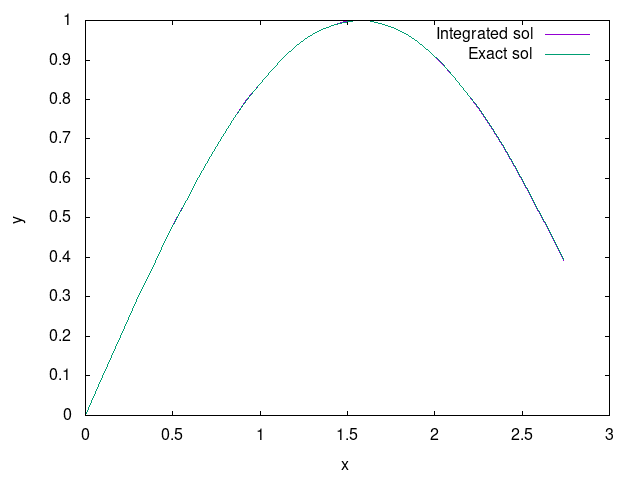
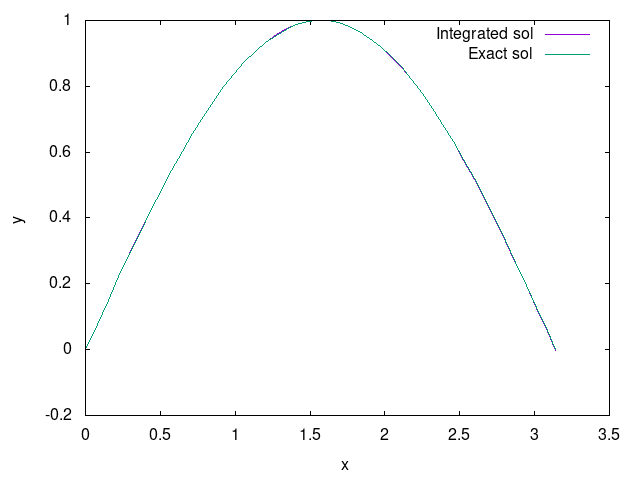
fixed 8

diff --git a/homework/ode/main.c b/homework/ode/main.c
@@ -74,8 +74,8 @@ int bby_driver(void f(double x, gsl_vector* y, gsl_vector* dydx)
         gsl_vector_view yx = gsl_matrix_row(&Y.matrix,k);
         //printf("%i %i %i\n",(&Y.matrix)->size1,(&Y.matrix)->size2,(&yx.vector)->size);
         rkstep12(f,xpos,&yx.vector,h, yplaceholder,err);
-        printf("ny\n");
-        gsl_vector_fprintf(stdout,yplaceholder,"%g");
+        //printf("ny\n");
+        //gsl_vector_fprintf(stdout,yplaceholder,"%g");
         dy = gsl_blas_dnrm2(err);
         normy = gsl_blas_dnrm2(yplaceholder);
         tol = (normy*eps+acc)*sqrt(h/(b-a));
@@ -146,7 +146,6 @@ void SIR3(double x, gsl_vector* y, gsl_vector* dydx){
     gsl_vector_set(dydx,1,didt);
     gsl_vector_set(dydx,2,drdt);
 }
-
 void threebody( double x, gsl_vector* y, gsl_vector* dydx){
     double G = 1.;
     double m1 = 1.;
@@ -164,9 +163,9 @@ void threebody( double x, gsl_vector* y, gsl_vector* dydx){
     double dr2y = gsl_vector_get(y,9);
     double dr3x = gsl_vector_get(y,10);
     double dr3y = gsl_vector_get(y,11);
-    double r1r2 = sqrt(pow((r1x-r2x),2)*pow((r1y-r2y),2));
-    double r1r3 = sqrt(pow((r1x-r3x),2)*pow((r1y-r3y),2));
-    double r2r3 = sqrt(pow((r2x-r3x),2)*pow((r2y-r3y),2));
+    double r1r2 = sqrt(pow((r1x-r2x),2)+pow((r1y-r2y),2));
+    double r1r3 = sqrt(pow((r1x-r3x),2)+pow((r1y-r3y),2));
+    double r2r3 = sqrt(pow((r2x-r3x),2)+pow((r2y-r3y),2));
     assert(r1r2>0);
     assert(r2r3>0);
     assert(r1r3>0);
@@ -258,7 +257,7 @@ int main(){
 
     //3-body system
 
-    double c=0., d=3.;
+    double c=0., d=8.;
     int j;
     gsl_vector* vec0 = gsl_vector_calloc(12);
     gsl_vector* vecplace = gsl_vector_calloc(12);
@@ -300,9 +299,9 @@ int main(){
     printf("norm: %g\n",gsl_blas_dnrm2(err));
      */
     double N=12;
-    double M=10000;
-    double ABS =0.001;
-    double EPS = 0.001;
+    double M=100;
+    double ABS =0.01;
+    double EPS = 0.01;
     double* Ral = malloc(sizeof(double)*(M*N));
     double* Zal = malloc(sizeof(double)*(M));
     printf("her\n");
